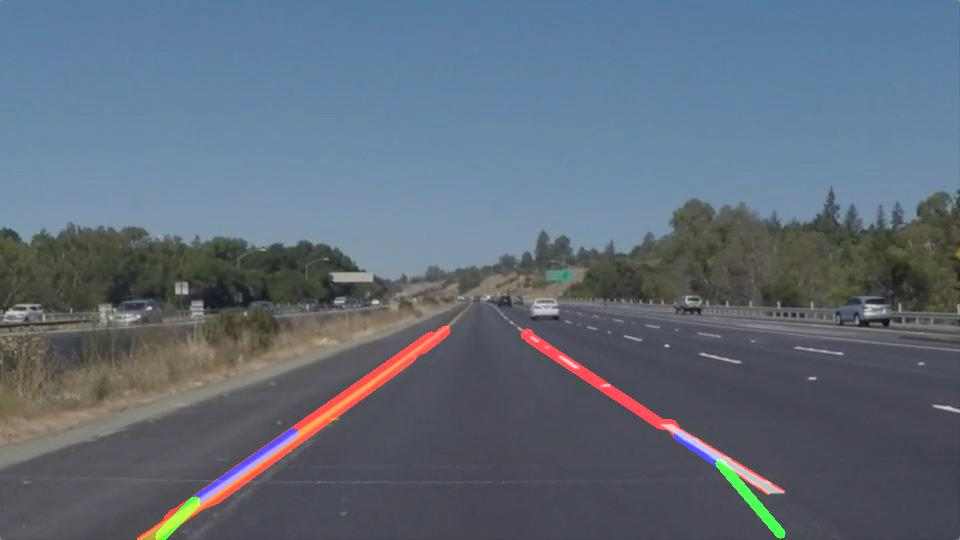
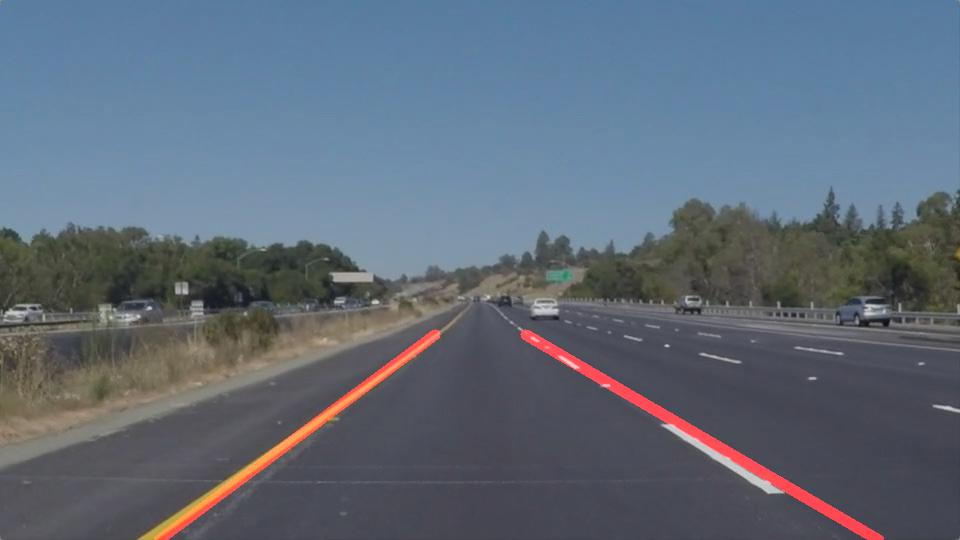
fixed line calculation

Changed region(s): [[0.5312, 0.6222, 0.9375, 1.0], [0.125, 0.5926, 0.4688, 1.0]]

diff --git a/lane_finder.py b/lane_finder.py
@@ -8,10 +8,19 @@ from PIL import Image
 
 #define vars for indices
 SLOPE=0
-X1=1
-Y1=2
-X2=3
-Y2=4
+X1=4
+Y1=5
+X2=6
+Y2=7
+INTERCEPT1=1
+INTERCEPT2=2
+LENGTH=3
+
+#define poly coords
+POLY_LEFT_BOT=(80, 540)
+POLY_LEFT_TOP=(420,330)
+POLY_RIGHT_TOP=(520,330)
+POLY_RIGHT_BOT=(900,540)
 
 def grayscale(img):
     """Applies the Grayscale transform
@@ -56,59 +65,33 @@ def region_of_interest(img, vertices):
     return masked_image
 
 
-def draw_down(img, lines, bottom, dist=6, color=[255,0,0], thickness=2):
-    points = np.zeros((len(lines), 5), dtype=np.int32)
-    xtop=1;ytop=2;xbot=3;ybot=4
-    is_left = False
-    if bottom[0] == 0:
-        is_left = True
-        print('\n========\nIn LEFT Line')
-        xtop=3;ytop=4;xbot=1;ybot=2
-    else:
-        print('\n========\nIn RIGHT Line')
-    #get distances in order to sort points properly
-    for i, line in enumerate(lines):
-        length = np.linalg.norm(np.array([line[xtop],line[ytop]]) - np.array(bottom[0], bottom[1]))
-        points[i][0] = length
-        points[i][1:] = np.copy(line[1:])
-    dist_sort = points[np.argsort(points[:,0])]
-    slope = lines[int(len(lines)/2)][SLOPE]
+def draw_side(img, lines, color=[255,0,0], thickness=2):
+    #figure out which which top corner to use for distance metrics and 
+    #which point references the top of the line segment
+    xtop=X1;ytop=Y1;xbot=X2;ybot=Y2
+    top = POLY_RIGHT_TOP
+    if lines[0][SLOPE] <= 0.0:
+        top=POLY_LEFT_TOP
+        xtop=X2;ytop=Y2;xbot=X1;ybot=Y1
 
-    #draw down the array. if not near x==0, finish by calculating the line segments with slope
-    print('SLOPE SORT:\t',lines)
-    print('DIST_SORT:\t',dist_sort)
-    i = len(dist_sort)-1
-    while i > 0:
-        x1 = dist_sort[i][xtop]
-        y1 = dist_sort[i][ytop]
-        x2 = dist_sort[i-1][xtop]
-        y2 = dist_sort[i-1][ytop]
-        print('Drawing: ({}, {}), ({}, {})'.format(x1, y1, x2, y2))
-        cv2.line(img, (x1, y1), (x2, y2), color, thickness)
-        i-=1
-
-    #draw last line
-    x1 = dist_sort[0][xtop]
-    y1 = dist_sort[0][ytop]
-    x2 = dist_sort[0][xbot]
-    y2 = dist_sort[0][ybot]
-    print('Drawing Last Line: ({}, {}), ({}, {})'.format(x1, y1, x2, y2))
-    cv2.line(img, (x1,y1), (x2,y2), [0,0,255], thickness)
-
-    #is there a gap at the bottom? fill it in
-    x1 = x2
-    y1 = y2
-    while True:  
-        x2 = int(x1+dist*np.sin(slope))
-        y2 = int(y1+dist*np.cos(slope))
-        if y2 >= bottom[1]:
-            break
-        if (is_left and x2 <= bottom[0]) or (not is_left and x2 >= bottom[0]):
-            break
-        print('Drawing Bottom Gap: ({}, {}), ({}, {})'.format(x1, y1, x2, y2))
-        cv2.line(img, (x1,y1), (x2,y2), [0,255,0], thickness)
-        x1 = x2
-        y1 = y2        
+    #find topmost point
+    start_points = (int(lines[0][xtop]), int(lines[0][ytop]))
+    top_length = np.linalg.norm(np.array(start_points) - np.array(top))
+    sum_slope=lines[0][SLOPE]
+    sum_intercept=lines[0][INTERCEPT1] + lines[0][INTERCEPT2]
+    i=1
+    while i < len(lines):
+        length = np.linalg.norm(np.array((int(lines[i][xtop]), int(lines[i][ytop]))) - np.array(top))
+        sum_slope += lines[0][SLOPE]
+        sum_intercept += (lines[0][INTERCEPT1] + lines[0][INTERCEPT2])
+        if length < top_length:
+            top_length = length
+            start_points = (int(lines[i][xtop]), int(lines[i][ytop]))
+        i+=1
+    slope = sum_slope/len(lines)
+    intercept = sum_intercept/(len(lines)*2)
+    x = int((-1 * (intercept/slope)) + (POLY_RIGHT_BOT[1]/slope))
+    cv2.line(img, start_points, (x, POLY_RIGHT_BOT[1]), color, thickness)
 
 
 def draw_lines(img, lines, color=[255, 0, 0], thickness=2):
@@ -131,36 +114,30 @@ def draw_lines(img, lines, color=[255, 0, 0], thickness=2):
 
     #calculate the slope of each line segment in order to figure out which side
     #the segment belongs
-    THRESHOLD=0.2
-    lines_with_slope=np.zeros((len(lines), 5))
+    lines_eq=np.zeros((len(lines), 8))
     for i, line in enumerate(lines):
         for x1,y1,x2,y2 in line:
             slope = (y2-y1)/(x2-x1)
-            lines_with_slope[i][0] = slope
-            lines_with_slope[i][1:] = np.copy(line)
-            cv2.line(img, (x1, y1), (x2,y2), color, thickness)
-#            length = np.linalg.norm(np.array([x2,y2]) - np.array([x1,y1]))
+            lines_eq[i][SLOPE] = slope
+            lines_eq[i][X1:] = np.copy(line)
+            lines_eq[i][INTERCEPT1] = y1 - slope * x1
+            lines_eq[i][INTERCEPT2] = y2 - slope * x2
 
     #sort the array by slope
-    sides = lines_with_slope[np.argsort(lines_with_slope[:,0])]
+    sides = lines_eq[np.argsort(lines_eq[:,0])]
 
     #now, advance in sorted sides until you reach a slope that belongs to left
     #side of the lane (right side will be negative...thus at beginning)
-    prev = sides[0]
     right_idx=1     
-    while right_idx < len(sides) and (sides[right_idx][SLOPE]-prev[SLOPE]) <= THRESHOLD:
-        prev = sides[right_idx]
+    while right_idx < len(sides) and sides[right_idx][SLOPE] <= 0.0:
         right_idx += 1
 
-
     #draw sides
-    LEFT_BOTTOM = np.array((0,img.shape[0]))
     left_line = np.copy(sides[:right_idx])
-    draw_down(img, left_line, LEFT_BOTTOM, 10, color, 10)
+    draw_side(img, left_line, color, 10)
 
-    RIGHT_BOTTOM = np.array((img.shape[1],img.shape[0]))
     right_line = np.copy(sides[right_idx:])
-    draw_down(img,right_line, RIGHT_BOTTOM, 10, color, 10)
+    draw_side(img,right_line, color, 10)
 
 def hough_lines(img, rho, theta, threshold, min_line_len, max_line_gap):
     """
@@ -208,7 +185,7 @@ if __name__ == '__main__':
 
         #define a polygon to use as the image mask
         imshape = blur_gray_image.shape
-        vertices = np.array([[(80, imshape[0]), (421,330), (521, 330), (900, imshape[0])]], dtype=np.int32)
+        vertices = np.array([[POLY_LEFT_BOT, POLY_LEFT_TOP, POLY_RIGHT_TOP, POLY_RIGHT_BOT]], dtype=np.int32)
 
         # apply vertices as an image mask to the image
         masked_edges = region_of_interest(edges, vertices)
